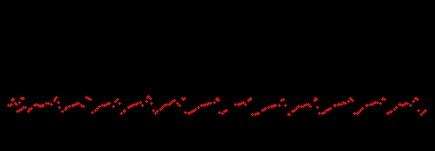
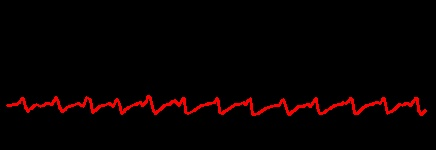
Quase pronto, arrumado o bug de sobrescrever

Changed region(s): [[0.0, 0.64, 0.9862, 0.7733]]

diff --git a/preProcessamento.py b/preProcessamento.py
@@ -8,12 +8,14 @@ import cv2
 import numpy as np
 import imutils
 
-
+# Metodo para ajudar no metodo sort
 def custom_sort(t):
     return t[0]
 
-
+# Entrada do video, Par(Nome do video)
 capturaDoVideo = cv2.VideoCapture("inputECG.mp4")
+
+# Configuracao da substracao de quadros MOG2
 substractor = cv2.createBackgroundSubtractorMOG2(
     history=30, varThreshold=16, detectShadows=False)
 
@@ -25,6 +27,7 @@ saida = cv2.VideoWriter('outputECG.avi', cv2.VideoWriter_fourcc(
     'M', 'J', 'P', 'G'), 30, (larguraDoQuadro, alturaDoQuadro))
 
 listaDePontos = []
+listaDePontosRevisada = []
 flag = 1
 retangulo = None
 pontoEsquerda = 0
@@ -81,9 +84,10 @@ while (capturaDoVideo.isOpened()):
         cXFull = 10000
         cYFull = 10000
         teste += 1
+        # Verifica quantos contornos tem no quadro
         for c in contornos:
             numeroDeSegmentos += 1
-        # looping for contours
+        # Verificar se há muitos seguimentos 
         for c in contornos:
             if (numeroDeSegmentos > 50):
                 continue
@@ -103,14 +107,9 @@ while (capturaDoVideo.isOpened()):
             cXFull = cX
             cYFull = cY
             pontoEsquerda = 1
-            # get bounding box from countour
-            # (x, y, w, h) = cv2.boundingRect(c)
-
-            # draw bounding box
-            # cv2.rectangle(res, (x, y), (x + w, y + h), (0, 255, 0), 2)
-            # cv2.drawContours(res, c, -1, (0, 255, 0), 3)
 
         cv2.circle(res, (cXFull, cYFull), 3, (0, 0, 255), -1)
+        # Colocar pontos no vetor de pontos
         if cXFull != 10000:
             listaDePontos.append([cXFull, cYFull])
 
@@ -128,7 +127,17 @@ while (capturaDoVideo.isOpened()):
     else:
         break
 
-# print(listaDePontos[2], 'tamanho : ', len(listaDePontos))
+# Todos os pontos encontrados
+for ponto in listaDePontos:
+    print('x: ', ponto[0], 'y: ', ponto[1])
+'''
+for ponto in range(len(listaDePontos) - 5):
+    pontoAux1 = listaDePontos[ponto] 
+    pontoAux2 = listaDePontos[ponto + 1]
+
+    if(pontoAux1[0] > pontoAux2[0]):
+'''
+print(listaDePontos[2], 'tamanho : ', len(listaDePontos))
 x, y, w, h = retangulo
 numeroImagem = 0
 flagImagem = 2
@@ -140,8 +149,14 @@ while(True):
     # novaImagem = cv2.cvtColor(novaImagem, cv2.COLOR_BGR2HSV)
     aux = flagImagem
     listAux = []
+    contador = 0
     # print('Passo aqui ', flagImagem)
     for ponto in range(len(listaDePontos)-aux):
+
+        if(contador <= 10):
+            contador = contador + 1
+            flagImagem += 1
+            continue
 
         pontos = listaDePontos[ponto+aux]
         flagImagem += 1
@@ -150,26 +165,31 @@ while(True):
         if(pontos[0] + 150 < pontosAnteriores[0]):
             # print(pontos[0], ' ', pontosAnteriores[0])
             break
-
-        cv2.circle(novaImagem, (pontos[0], pontos[1]), 1, (0, 0, 255), -1)
+        """
+        if(pontos[0] < pontosAnteriores[0]):
+            pontoAux = listaDePontos[ponto+aux+5]
+            if(pontoAux[0] < pontosAnteriores[0]):
+                print('Primeiro:', pontos[0], pontoAux[0], pontosAnteriores[0])
+                listAux = []
+        """
+        #cv2.circle(novaImagem, (pontos[0], pontos[1]), 1, (0, 0, 255), -1)
 
         #cv2.line(novaImagem, (pontosAnteriores[0], pontosAnteriores[1]),
         #         (pontos[0], pontos[1]), (0, 0, 255), 2)
 
-    """
+    
     print(len(listAux))
     listAux.sort(key=custom_sort)
 
     for ponto in range(len(listAux) - 1):
         pontos = listAux[ponto+1]
-        pontosAnteriores = listAux[ponto-1]
+        pontosAnteriores = listAux[ponto]
         cv2.line(novaImagem, (pontosAnteriores[0], pontosAnteriores[1]),
                  (pontos[0], pontos[1]), (0, 0, 255), 2)
-    """
+    
     nomeImage = 'imageTest' + str(numeroImagem) + '.jpg'
     numeroImagem += 1
     cv2.imwrite(nomeImage, novaImagem)
-
     if(flagImagem >= len(listaDePontos)):
         break
 
